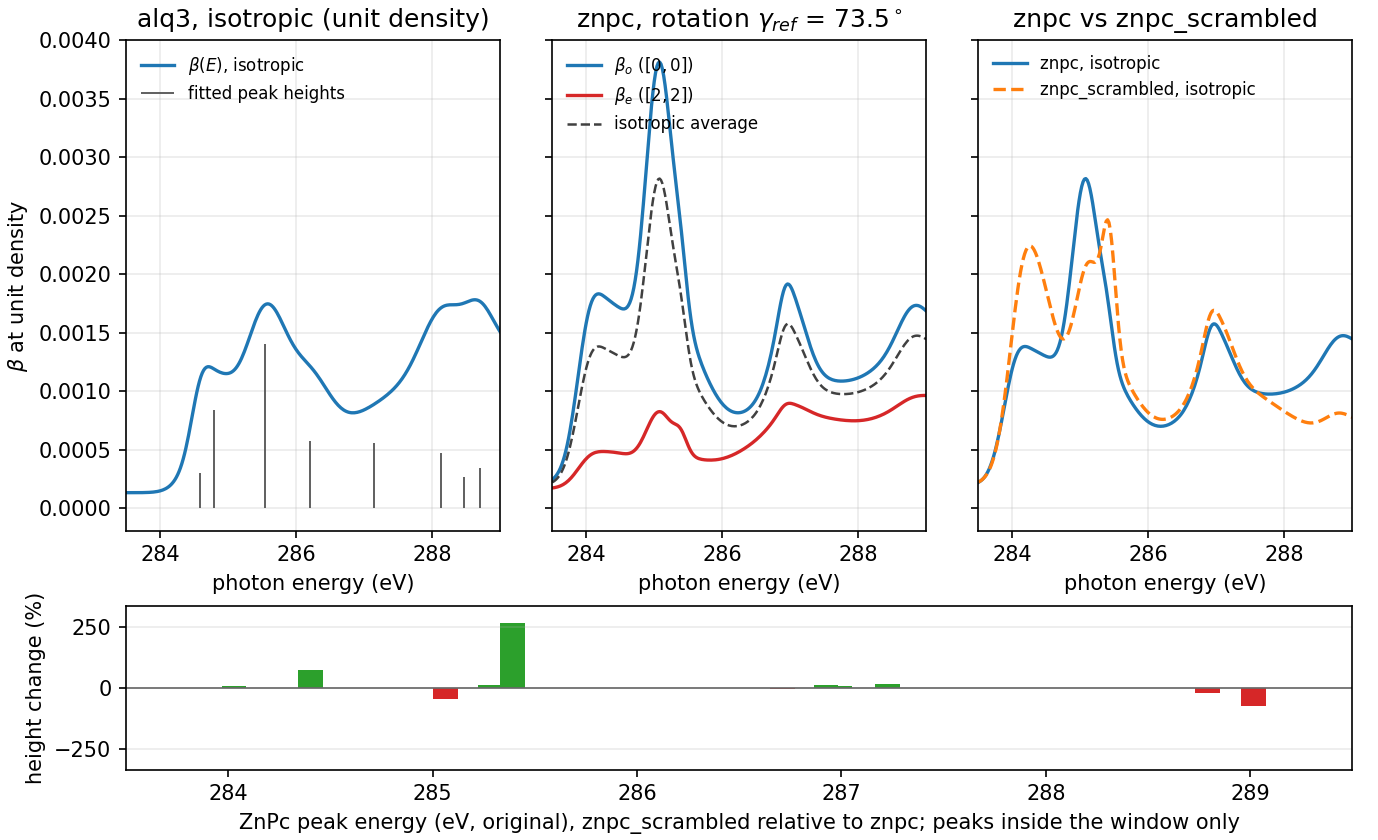
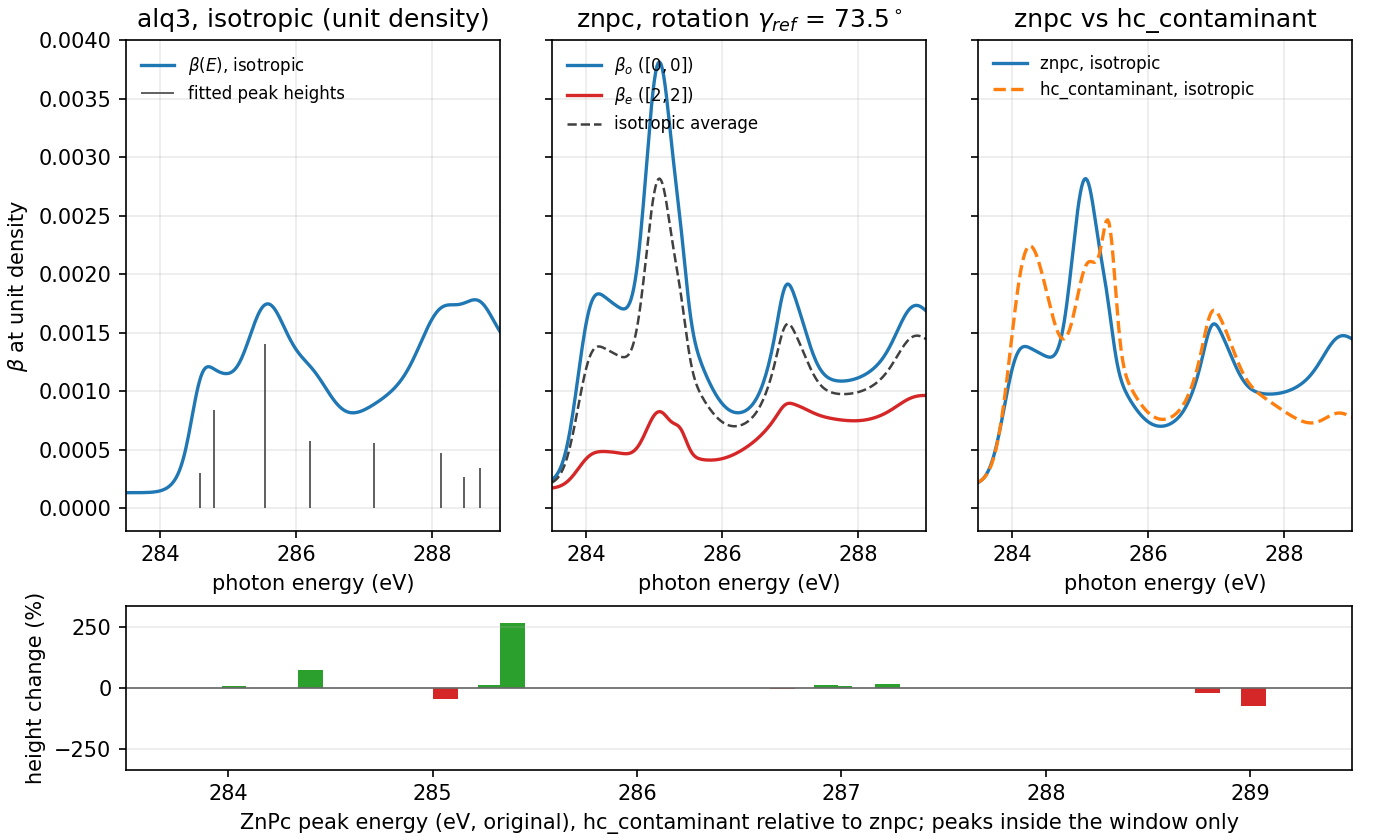
docs: rename third material to hc_contaminant

Changed region(s): [[0.1872, 0.9595, 0.9049, 1.0], [0.7489, 0.0, 0.9673, 0.031], [0.7489, 0.0929, 0.9049, 0.1238]]

diff --git a/examples/lineshape_three_material.py b/examples/lineshape_three_material.py
@@ -1,5 +1,5 @@
 #!/usr/bin/env python3
-"""Three-material film: frozen Alq3 and ZnPc fits, a scrambled ZnPc, and gradients.
+"""Three-material film: frozen Alq3 and ZnPc fits, a contaminant, and gradients.
 
 The materials come from the frozen lineshapes fits in
 ``examples/data/lineshapes_materials.json`` (written by
@@ -12,7 +12,7 @@ film on a native SiO2 layer and a silicon substrate: vacuum | film | oxide | Si.
 - ``znpc``: the full uniaxial ZnPc tensor. Each peak's height is the isotropic
   magic-angle strength, and its molecular TDM tilt reproduces the measured
   film-frame anisotropy at the measured molecular tilt `gamma_ref`.
-- ``znpc_scrambled``: the ZnPc peak set with three height swaps, jittered heights
+- ``hc_contaminant``: the ZnPc peak set with three height swaps, jittered heights
   and small energy shifts, all from one seed. It is a synthetic variant for the
   demo, not a measured material.
 
@@ -56,11 +56,11 @@ DATA_FILE = Path(__file__).resolve().parent / "data" / "lineshapes_materials.jso
 # Illustrative film densities (g/cm^3). The frozen tables are per unit density.
 DENSITY_ALQ3 = 1.31
 DENSITY_ZNPC = 1.60
-# Seeded scramble of the ZnPc peaks (one generator, drawn in this order).
-SCRAMBLE_SEED = 2025
-SCRAMBLE_PAIRS = 3  # disjoint height swaps
-SCRAMBLE_TOP = 8  # swap partners come from this many strongest peaks (by F_iso)
-SCRAMBLE_WINDOW = (283.5, 289.5)  # eV, swap candidates lie inside the demo window
+# Seeded contaminant of the ZnPc peaks (one generator, drawn in this order).
+CONTAMINANT_SEED = 2025
+CONTAMINANT_PAIRS = 3  # disjoint height swaps
+CONTAMINANT_TOP = 8  # swap partners come from this many strongest peaks (by F_iso)
+CONTAMINANT_WINDOW = (283.5, 289.5)  # eV, swap candidates lie inside the demo window
 JITTER_SIGMA = 0.15  # lognormal sigma of each height factor
 JITTER_CLIP = (0.7, 1.4)  # height factors are clipped to this range
 SHIFT_SIGMA = 0.05  # eV, Gaussian energy shift of each peak
@@ -94,7 +94,7 @@ ALQ3_TILTS_DEG = {
 }
 # ZnPc gamma: interior fractions of the way from MAGIC_ANGLE to gamma_ref.
 ZNPC_GAMMA_FRACTIONS = (0.25, 0.72)
-SCRAMBLED_GAMMA_FRACTIONS = (0.12, 0.55)
+CONTAMINANT_GAMMA_FRACTIONS = (0.12, 0.55)
 
 
 def make_shape() -> SplineShape:
@@ -262,27 +262,27 @@ def znpc_peaks(material: dict[str, Any]) -> list[Peak]:
     ]
 
 
-def scramble_draw(
+def contaminant_draw(
     records: Sequence[dict[str, Any]],
 ) -> tuple[list[tuple[int, int]], NDArray[np.float64], NDArray[np.float64]]:
-    """Seeded scramble of the ZnPc peaks: swap pairs, heights and energies.
+    """Seeded contaminant of the ZnPc peaks: swap pairs, heights and energies.
 
     Returns the swap pairs (indices into ``records``), the absolute heights
     after the swaps and the height jitter, and the shifted energies (eV). The
-    swap candidates are the `SCRAMBLE_TOP` strongest peaks by `F_iso` whose
-    original energy lies in `SCRAMBLE_WINDOW`; the seeded generator draws the
+    swap candidates are the `CONTAMINANT_TOP` strongest peaks by `F_iso` whose
+    original energy lies in `CONTAMINANT_WINDOW`; the seeded generator draws the
     disjoint pairs among them. Every peak gets a lognormal height factor and a
     clipped Gaussian energy shift.
     """
-    rng = np.random.default_rng(SCRAMBLE_SEED)
+    rng = np.random.default_rng(CONTAMINANT_SEED)
     f_iso = np.array([znpc_iso(rec) for rec in records])
     energy = np.array([float(rec["energy"]) for rec in records])
     in_window = np.flatnonzero(
-        (energy >= SCRAMBLE_WINDOW[0]) & (energy <= SCRAMBLE_WINDOW[1])
+        (energy >= CONTAMINANT_WINDOW[0]) & (energy <= CONTAMINANT_WINDOW[1])
     )
-    strongest = in_window[np.argsort(-f_iso[in_window])][:SCRAMBLE_TOP]
-    chosen = rng.permutation(strongest)[: 2 * SCRAMBLE_PAIRS]
-    pairs = [(int(a), int(b)) for a, b in chosen.reshape(SCRAMBLE_PAIRS, 2)]
+    strongest = in_window[np.argsort(-f_iso[in_window])][:CONTAMINANT_TOP]
+    chosen = rng.permutation(strongest)[: 2 * CONTAMINANT_PAIRS]
+    pairs = [(int(a), int(b)) for a, b in chosen.reshape(CONTAMINANT_PAIRS, 2)]
     heights = f_iso.copy()
     for a, b in pairs:
         heights[[a, b]] = f_iso[[b, a]]
@@ -291,14 +291,14 @@ def scramble_draw(
     return pairs, heights * jitter, energy + shift
 
 
-def scrambled_peaks(material: dict[str, Any]) -> list[Peak]:
-    """ZnPc peaks of the scrambled variant: absolute heights, tilts from `znpc`.
+def contaminant_peaks(material: dict[str, Any]) -> list[Peak]:
+    """ZnPc peaks of the contaminant variant: absolute heights, tilts from `znpc`.
 
     Tilts and widths stay with their peaks. Only heights and energies change.
     """
     records = material["peaks"]
     _, thetas, _ = znpc_tilts(records)
-    _, heights, energies = scramble_draw(records)
+    _, heights, energies = contaminant_draw(records)
     return [
         Peak(
             "gaussian",
@@ -337,14 +337,14 @@ def build_profile() -> DepthProfile:
         density=DENSITY_ZNPC,
         name="znpc",
     )
-    znpc_scrambled = PeakSumSLD(
-        scrambled_peaks(materials["znpc"]),
+    hc_contaminant = PeakSumSLD(
+        contaminant_peaks(materials["znpc"]),
         baseline=baseline_table(materials["znpc"]),
         density=DENSITY_ZNPC,
-        name="znpc_scrambled",
+        name="hc_contaminant",
     )
     return DepthProfile(
-        Mix([alq3, znpc, znpc_scrambled], rule="linear"),
+        Mix([alq3, znpc, hc_contaminant], rule="linear"),
         thickness=THICKNESS,
         n_slabs=N_SLABS,
         mesh="uniform",
@@ -354,7 +354,7 @@ def build_profile() -> DepthProfile:
         phi=[
             field(shape, "phi_alq3", (0.85, 0.55, 0.45, 0.40)),
             field(shape, "phi_znpc", (0.10, 0.33, 0.35, 0.35)),
-            field(shape, "phi_znpc_scrambled", (0.05, 0.12, 0.20, 0.25)),
+            field(shape, "phi_hc_contaminant", (0.05, 0.12, 0.20, 0.25)),
         ],
         # Orientation gamma (radians), one field per material. Alq3 has a
         # face-on surface (gamma = 0) and reaches the magic angle at the
@@ -368,8 +368,8 @@ def build_profile() -> DepthProfile:
             ),
             field(
                 shape,
-                "gamma_znpc_scrambled",
-                curved_gamma(gamma_ref, SCRAMBLED_GAMMA_FRACTIONS),
+                "gamma_hc_contaminant",
+                curved_gamma(gamma_ref, CONTAMINANT_GAMMA_FRACTIONS),
             ),
         ],
         # Total density, after mixing: changes mostly toward z = THICKNESS.
@@ -430,7 +430,7 @@ def save_channels(path: Path) -> None:
         (
             "volume fraction $\\phi$",
             1.0,
-            [("phi_0", "alq3"), ("phi_1", "znpc"), ("phi_2", "znpc_scrambled")],
+            [("phi_0", "alq3"), ("phi_1", "znpc"), ("phi_2", "hc_contaminant")],
         ),
         ("total density scale", 1.0, [("density_scale", "density_scale")]),
         (
@@ -439,7 +439,7 @@ def save_channels(path: Path) -> None:
             [
                 ("orientation_0", "alq3"),
                 ("orientation_1", "znpc"),
-                ("orientation_2", "znpc_scrambled"),
+                ("orientation_2", "hc_contaminant"),
             ],
         ),
         (
@@ -490,7 +490,7 @@ def _building_block(
 
 
 def save_materials(path: Path) -> None:
-    """Building blocks: unit-density beta(E) of each material, and the ZnPc scramble."""
+    """Building blocks: unit-density beta(E) of each material, and the contaminant."""
     import matplotlib.pyplot as plt
     from matplotlib.gridspec import GridSpec
 
@@ -498,7 +498,7 @@ def save_materials(path: Path) -> None:
     alq3_rec = materials["alq3"]
     znpc_rec = materials["znpc"]
     gamma_ref, _, _ = znpc_tilts(znpc_rec["peaks"])
-    _, scr_heights, _ = scramble_draw(znpc_rec["peaks"])
+    _, contaminant_heights, _ = contaminant_draw(znpc_rec["peaks"])
     f_iso = np.array([znpc_iso(rec) for rec in znpc_rec["peaks"]])
 
     # Alq3: isotropic, fitted (substrate-end) heights, unit density.
@@ -514,12 +514,12 @@ def save_materials(path: Path) -> None:
         rotation=gamma_ref,
     )
     znpc_t = znpc_src.tensor_at_many(FINE)
-    scrambled_src = _building_block(
-        scrambled_peaks(znpc_rec),
+    contaminant_src = _building_block(
+        contaminant_peaks(znpc_rec),
         baseline_table(znpc_rec),
         rotation=gamma_ref,
     )
-    scrambled_t = scrambled_src.tensor_at_many(FINE)
+    contaminant_t = contaminant_src.tensor_at_many(FINE)
 
     fig = plt.figure(figsize=(9.2, 5.6), constrained_layout=True)
     grid = GridSpec(2, 3, figure=fig, height_ratios=[3.0, 1.0])
@@ -572,13 +572,13 @@ def save_materials(path: Path) -> None:
     )
     ax_s.plot(
         FINE,
-        scrambled_t.imag.trace(axis1=1, axis2=2) / 3.0,
+        contaminant_t.imag.trace(axis1=1, axis2=2) / 3.0,
         color="C1",
         lw=1.6,
         ls="--",
-        label="znpc_scrambled, isotropic",
+        label="hc_contaminant, isotropic",
     )
-    ax_s.set_title("znpc vs znpc_scrambled")
+    ax_s.set_title("znpc vs hc_contaminant")
 
     for ax in (ax_a, ax_z, ax_s):
         ax.set_xlim(283.5, 289.0)
@@ -591,17 +591,17 @@ def save_materials(path: Path) -> None:
 
     # Only peaks inside the demo window are drawn; the others are left out.
     centers = np.array([float(rec["energy"]) for rec in znpc_rec["peaks"]])
-    inside = (centers >= SCRAMBLE_WINDOW[0]) & (centers <= SCRAMBLE_WINDOW[1])
-    pct = (100.0 * (scr_heights / f_iso - 1.0))[inside]
+    inside = (centers >= CONTAMINANT_WINDOW[0]) & (centers <= CONTAMINANT_WINDOW[1])
+    pct = (100.0 * (contaminant_heights / f_iso - 1.0))[inside]
     centers = centers[inside]
     ax_strip.bar(centers, pct, width=0.12, color=np.where(pct >= 0, "C2", "C3"))
     ax_strip.axhline(0.0, color="0.4", lw=0.8)
     span = float(np.abs(pct).max())
     ax_strip.set_ylim(-1.25 * span, 1.25 * span)
-    ax_strip.set_xlim(*SCRAMBLE_WINDOW)
+    ax_strip.set_xlim(*CONTAMINANT_WINDOW)
     ax_strip.set_ylabel("height change (%)")
     ax_strip.set_xlabel(
-        "ZnPc peak energy (eV, original), znpc_scrambled relative to znpc; "
+        "ZnPc peak energy (eV, original), hc_contaminant relative to znpc; "
         "peaks inside the window only"
     )
     ax_strip.grid(True, axis="y", alpha=0.25)

diff --git a/docs/guides/lineshapes_integration/peak_gradients.md b/docs/guides/lineshapes_integration/peak_gradients.md
@@ -25,8 +25,8 @@ default path).
   the depth gradients.
 - **`znpc`** is the full uniaxial ZnPc tensor, with 19 peaks. Each peak's
   height and TDM tilt come from the ZnPc derivation below.
-- **`znpc_scrambled`** is a synthetic variant of the ZnPc peak set, with some
-  heights swapped, jittered heights and small energy shifts. See below.
+- **`hc_contaminant`** is a synthetic stand-in for a hydrocarbon contaminant,
+  built from the ZnPc peak set. See below.
 
 The density values are illustrative, not measured: Alq3 is 1.31 g/cm$^3$ and
 ZnPc is 1.60 g/cm$^3$. Each `PeakSumSLD` takes its density as an argument,
@@ -81,21 +81,28 @@ strong $\pi^*$ peaks. ZnPc runs from amorphous (`MAGIC_ANGLE`) at the surface
 to that ordered state at the substrate. Some peaks are clipped to the nearest
 reachable tilt, at 0 or $\pi/2$.
 
-### Scrambled ZnPc
+### Hydrocarbon contaminant stand-in
 
-`znpc_scrambled` is a synthetic variant for the demo, not a measured material.
-It keeps the `znpc` baseline, widths and per-peak TDM tilts, and changes the
-heights and energies from one generator, `np.random.default_rng(2025)`: three
-disjoint height swaps among the 8 strongest peaks inside 283.5 to 289.5 eV,
-each height times a lognormal factor (sigma 0.15, clipped to 0.7 to 1.4), and
-each energy shifted by a Gaussian (sigma 0.05 eV, clipped to $\pm$0.10 eV).
-The swapped pairs, by original energy, are:
+`hc_contaminant` is a synthetic stand-in for a hydrocarbon contaminant layer.
+It is not a measured hydrocarbon spectrum: it is built from the ZnPc peak set
+(same tilts and baseline) with three seeded changes: heights swapped between
+three pairs of strong in-window peaks, a random height factor, and small
+random energy shifts. The changes come from one generator,
+`np.random.default_rng(2025)`. The swaps are among the 8 strongest peaks inside
+283.5 to 289.5 eV. Each height is multiplied by a lognormal factor (sigma 0.15,
+clipped to 0.7 to 1.4), and each energy is shifted by a Gaussian (sigma 0.05 eV,
+clipped to $\pm$0.10 eV). The swapped pairs, by original energy, are:
 
 | Swap | Peak energies (eV) |
 |---|---|
 | 1 | 285.06 and 284.40 |
 | 2 | 285.39 and 289.02 |
 | 3 | 284.03 and 287.23 |
+
+Its density, 1.60 g/cm$^3$ like ZnPc, is illustrative, as are the other
+densities. In this demo the contaminant fraction rises toward the substrate
+(5 to 25 %), which is a demo choice for showing a third depth profile, not a
+claim about where contaminants sit.
 
 ### Construction code
 
@@ -146,14 +153,14 @@ Each channel follows this profile:
 - **Volume fractions.** Alq3 starts at 0.85 and falls fast over the top 60 Å
   to 0.55, then levels off near 0.40 at $z=T$. The two ZnPc layers enrich
   toward the substrate. ZnPc rises from 0.10 to about 0.36 near 90 Å, then
-  settles at 0.35. Scrambled ZnPc rises from 0.05 to 0.25. The three fractions
+  settles at 0.35. Hydrocarbon contaminant stand-in rises from 0.05 to 0.25. The three fractions
   sum to 1 at every knot.
 - **Total density.** `density_scale` multiplies the mixed tensor after mixing.
   It runs from 0.85 at the surface to 1.15 at $z=T$. Most of the rise is in
   the lower half.
 - **Orientation.** Alq3 stays near face-on at the surface and reaches the
   magic angle at $z=T$. Both ZnPc layers start at the magic angle and order
-  toward $\gamma_{\rm ref}$, 73.5°, with scrambled ZnPc ordering a little later
+  toward $\gamma_{\rm ref}$, 73.5°, with hydrocarbon contaminant ordering a little later
   in depth.
 - **Alq3 peaks.** The heights of p1 to p3 and the TDM tilts of p1, p2, p4 and
   p5 follow the outline table above.
@@ -169,7 +176,7 @@ Angles are shown in degrees.
 
 Unit-density $\beta(E)$ of alq3 (isotropic), of znpc (the $[0,0]$ and $[2,2]$
 diagonal at $\gamma_{\rm ref}$, and their average), and of znpc against
-znpc_scrambled (isotropic average). The strip below shows the per-peak height change of znpc_scrambled relative to znpc, for the peaks inside 283.5 to 289.5 eV only.
+hc_contaminant (isotropic average). The strip below shows the per-peak height change of hc_contaminant relative to znpc, for the peaks inside 283.5 to 289.5 eV only.
 
 ![Building blocks](../../assets/lineshape-gradient-materials.png)
 

diff --git a/docs/guides/lineshapes_integration/index.md b/docs/guides/lineshapes_integration/index.md
@@ -88,7 +88,7 @@ with more detail.
 ## Next
 
 - [Peak gradients](peak_gradients.md): a three-material film (frozen Alq3 and
-  ZnPc fits, a full ZnPc tensor and a scrambled ZnPc) with depth-varying
+  ZnPc fits, a full ZnPc tensor and a hydrocarbon contaminant) with depth-varying
   composition, orientation and peaks, a dense energy set with NEXAFS and ridge
   figures, and the knot fit.
 - [Building structures](../building_structures/index.md): the other depth-law
